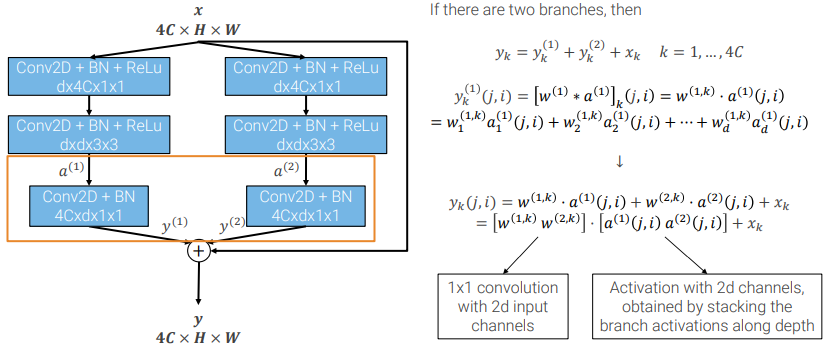
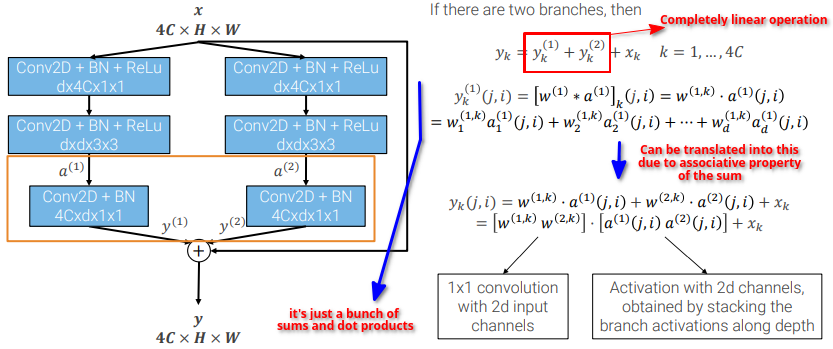
vault backup: 2023-06-15 04:17:15

diff --git a/2023-06-05 - Bottleneck ResBlock, ResNext, SE.md b/2023-06-05 - Bottleneck ResBlock, ResNext, SE.md
@@ -1,0 +1,138 @@
+The effect of stacking more layers is that you reduce the training error.
+Resnets are not more powerful, they have the same params, but are easier to train. 
+As a byproduct of this easier training, you get better generalization for complex archictures. 
+
+## Bottleneck residual block
+Now that they had the ResBlock, they wanted to go deep by stacking multiple residual block. The problem is that everytime you add a new ResBlock, you also add 2 additional layer, which translates into an additionak: $36 * 𝐶^2 * 𝐻* 𝑊$ flops, and $18*C^2$ parameters.
+![[bottleneck.png]]
+Used with very deep resnets: more layers with approx same parameters and flops. It enables _faster increases in depth_ without altering _computational budget_.
+The architecture is composed by:
+- The 1st 1x1 conv, which transfroms a 4C input into a 1C output, so that the following 3x3 conv can handle it.
+- A 3x3 conv, which has the same computational complexity as the one found in the  normal ResBlock. 
+- The 2nd 1x1 conv, which brings the number of channel back to 4C so that the residual connection is possible.
+
+__Bottleneck ResBlocks__ are faster and provide larger depth.
+
+A good, default choice is ResNet-50. 
+
+## Transfer Learning
+We normally want to run CNNs on new classification datasets, not on ImageNet.
+
+One of the most important _features_, from a practical point of view, of _learned representations_ is that they can be effectively _transferred to new datasets_.
+__Transfer learning__ is the process of using and adapting a _pre-trained NN_ to new _datasets_. Usually, we pre-train on large datasets, and then we use it as frozen feature extractor or fine-tune it on the new dataset.
+![[transfer_learning.png]]
+![[transfer_detail.png]]
+
+In particular:
+- 2a. With Frozen CNNs, we perform network surgery, by _cutting the classification "head"_ of ou network and _putting a new one_ that has _the right number of output classes_. After that, the head is then _trained_. 
+- 2b. With fine-tuning, we re-train both the new head and the feature extractor. However, we have an head that is untrained and a model that is trained. So, in order to _not skew_ our results, we have to:
+	1. Start with _frozen feature extractor_ for a few epochs
+	2. Use _smaller LR_ (learning rate) than the one used to train original architecture 
+	3. _Progressive LRs_: use smaller learning rates when _training extractor_, and even freeze lower layers (since lower layers, like stage 4, usually are more speficic to the domains of the previously learned net).
+
+When doing transfer-learning, you might wanna be aware of Batch-Norm layers, namely you want to freeze them even when fine-tuning, since they may change statistics (i.e. mean and variantion, standard deviation) from what you want to expect. 
+You can gain high accuracy just by not unfreezing the BN layers. 
+
+## Inception-ResNet-v2 - Mixed couple
+Inception-v4 is basically a larger Inception-v3 with a more complicated stem. The authors also tried the residual connections idea around the Inception module.
+
+## ResNeXt
+Inception modules are effective _multibranch architectures_, which can be thought of as following a split-transform-merge paradigm. Yet, they are heuristically and carefully designed.
+ResNeXt is a simpler way (in the spirit of VGG and ResNet) to realize _multiple pathways_. 
+It _decomposes_ each __bottleneck residual block__ of ResNets into $𝐺$ _parallel branches_, i.e. the cardinality of the convolution. 
+
+Once $𝐺$ is chosen, it is possible to obtain a $𝑮 × 𝒅$ ResNeXt block with complexity similar to the original ResNet block ($34*𝐶^2*𝐻*𝑊$) by equating the two FLOPs expressions and solving for $𝑑$.
+
+>[!WARNING]
+>Remember! Once I fix $G$, I can find $d$ -> $d$ is a byproduct of $G$.
+
+![[res_next.png]]
+
+This operation basically does the same as a _stack of convolutions_, and I'll show you why. 
+
+#### Grouped convolutions – general case
+![[grouped_convolution.png]]
+In grouped convolution, we have a kernel that focuses only on determined channels of the input, while the other kernel focuses on the other channels. 
+The result is that I obtain the same output (shapes, not really the same output though) with the same input, but:
+- ==𝑮 times _less params_, 𝑮 times _less flops_.==
+
+## Converting the multibranch
+#### Part 1 - The final layers
+![[ipcv_shittiest_formula.png]]
+Since I have just a bunch of dot products and sums, I can express the operation of summing $y^{(1)}_k$ and $y^{(2)}_k$ as a 1x1 convolution. 
+![[to_1b1_conv.png]]
+
+#### Part 2 - Initial part
+Or, how to convert Multiple 1x1 convolution as a single 1x1 convolution. 
+![[p1.png]]
+![[p2.png]]
+
+Two 1x1 convolutions processing the same input tensor in parallel… can be realized as one 1x1 conv with twice the channels, after which we split the activations.
+
+#### Part 3 - The middle part
+Now, we have also to transform the middle part of the net as a conv layer:
+![[p3.png]]
+Finally, the central operation of the reformulated block is actually a _grouped convolution_ with 𝐺 groups.
+
+#### In short
+The multibranch design can be realized with a stack of convolutions. 
+
+### ResNeXt results
+The results show that you dont need many channels -> you can obtain a good representation just by doing a lot of different combinations of different subjects of 4 channels.
+
+## Squeeze-and-Excitation Net (SENet)
+Propose the __squeeze-and-excitation module__ to capture global context and use it to reweight channels in each block.
+![[senet.png]]
+##### What does SE do?
+The SE-layer takes in input the ResNext output, and does the following things:
+- It uses _global average pooling_ to squeeze the dimension of the input to 1x1 in the spatatial dimesnsion (__Squeeze__). 
+- The FC and activations functions then _reduce_ and then _resize back_ the _channel dimesion_ (__Excitation__)
+The output of the sigmoid (the excitation part) will then be used as a scaling factor for the ResNext output, in particular along the channel dimension. 
+The SE-block output allows for a dialogue between channel in a sense. 
+
+## MobileNets
+People now shifted to make these things run on low power platforms.
+In this context, grouped convolutions are exploited. 
+
+### Depth-wise separable convolutions
+Standard convolutions 
+1. filter features based on the convolutional kernels and 
+2. combine features in order to produce new representations. 
+Very expressive but also very expensive. 
+
+By separating filtering and combination, _depthwise separable convolutions_ aggressively limit computational cost. In particular, they use grouped convolution, with as many groups as input channels, so that each kernel works on a single channel basically. 
+![[depth-wise.png]]
+Also, this allows us to compute spatial reasoning fast, but no channel mixing. 
+
+### Inverted Residual blocks
+The bottleneck residual block of ResNet was introduced to scale up the model depth by increasing the number of layers per block while keeping the computation and number of parameters roughly constant. 
+
+To this end, it uses a pair of 1x1 convs, where the _first compresses_ the number of channels, while the _second expands_ them. 
+
+Hence, the “real” 3x3 convolution processing spatial information operates in the compressed domain. This may result in information loss going through ReLUs.
+
+To avoid this potential information loss, MobileNetv2 proposes to use _inverted residual blocks_. 
+![[inverted_res.png]]
+
+In such blocks, the first 1x1 conv _expands the channels_, while the second compresses them back, according to an expansion ratio 𝑡.
+- The opposite of normal bottleneck ResBlocks.
+
+To limit the increase in computation , the inner 3x3 convolution is realized as a depthwise convolution.
+
+The last difference is the removal of non-linearities between residual blocks: this is motivated by a theoretical study on the ability of ReLUs to preserve information in low-dimensional manifolds and experimentally verified.
+
+### MobileNets
+MobileNet-v2 is a stack of inverted residuals blocks.
+
+The number of channels grows slowly compared to previous architectures: this is a benefit of blocks exchanging compressed activation and helps in keeping the complexity low. Low number of channels does not require heavy size reduction in the stem layer. Yet, the representation must be expanded before feeding it to the classifier. 
+
+When a block downsamples the activation, it applies stride=2 to the inner 3x3 convolution (ResNet-D trick). 
+
+Whenever spatial dimensions or number of channels do not match between input and output, there are no residual connections
+
+### Wide-ResNet
+ResNets allowed us to explore the advantages of depth by stacking residual blocks. But model scaling can be performed also by increasing width, i.e. number of channels at each layer.
+
+To study its effect, a widening factor 𝑘 is introduced by Wide ResNets and the resulting model is usually referred to as WRN-𝒏-𝒌, e.g. WRN-50-2 has 50 layers, each of them has twice the channels it has in ResNet-50. 
+
+Trading depth for width can give similar performance. What is the optimal way to scale a model?
